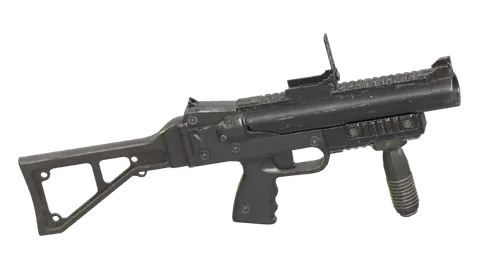
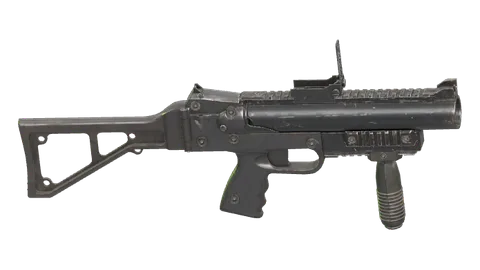
Armory slots in one row that filter what is shown; shop sections on their own; GL-06 level
- Armory: a tab's slots sit side by side (five for armour, three for weapons, two for
  equipment); picking one shows only the owned items that fit it, Show all brings the rest back
- Shop: All, or one section at a time (Helmet, Torso, Vest, Legs, Boots; Main, Pistol)
- The GL-06 model was made with its barrel tilted up 8 degrees; it is now level in the hands
  and in its picture (weapon sources take a pitch)

Changed region(s): [[0.0312, 0.1185, 0.9688, 0.8889]]

diff --git a/apps/web/src/app/screens/shop-screen.tsx b/apps/web/src/app/screens/shop-screen.tsx
@@ -24,6 +24,8 @@ export function ShopScreen() {
 	const [problem, setProblem] = useState<ProgressProblem | null>(null)
 	const opened = useSearch({ strict: false }) as { tab?: Tab }
 	const [tab, setTab] = useState<Tab>(opened.tab ?? 'weapons')
+	/** one section of the tab on its own (a place for armour, a slot for weapons), or all of them */
+	const [only, setOnly] = useState<string | null>(null)
 	const view = progress.data
 	if (!view) return <GameShell>{null}</GameShell>
 	const owned = new Set(view.inventory.map(entry => entry.itemId))
@@ -58,7 +60,10 @@ export function ShopScreen() {
 						type="button"
 						role="tab"
 						aria-selected={tab === key}
-						onClick={() => setTab(key)}
+						onClick={() => {
+							setTab(key)
+							setOnly(null)
+						}}
 						className={cn(
 							'frame cut-sm min-w-32 px-4 py-2.5 font-bold text-xs uppercase tracking-[0.2em]',
 							tab === key
@@ -70,99 +75,121 @@ export function ShopScreen() {
 					</button>
 				))}
 			</div>
+			{sections.length > 1 && (
+				<fieldset className="mb-4 flex shrink-0 flex-wrap gap-1 border-0 p-0" aria-label={t.filterLabel}>
+					{[{ key: null as string | null, title: t.all }, ...sections].map(section => (
+						<button
+							key={section.key ?? 'all'}
+							type="button"
+							aria-pressed={only === section.key}
+							onClick={() => setOnly(section.key)}
+							className={cn(
+								'frame cut-sm px-3 py-1.5 font-bold text-xs uppercase tracking-[0.15em]',
+								only === section.key
+									? 'text-rot-lime [--frame-color:var(--color-rot-lime)]'
+									: 'text-muted [--frame-fill:var(--color-rot-black)] hover:text-bone'
+							)}
+						>
+							{section.title}
+						</button>
+					))}
+				</fieldset>
+			)}
 			<div className={cn(scroller, 'flex flex-col gap-8')}>
-				{sections.map(section => (
-					<section key={section.key} className="flex flex-col gap-3">
-						<h2 className="font-display text-2xl uppercase">{section.title}</h2>
-						<ul className="grid gap-4 sm:grid-cols-2 lg:grid-cols-3 xl:grid-cols-4">
-							{items
-								.filter(entry => section.ids.includes(entry.id))
-								.sort((a, b) => a.price - b.price)
-								.map(entry => {
-									const has = owned.has(entry.id)
-									const affordable = view.salvage >= entry.price
-									const weapon = weapons.find(candidate => candidate.id === entry.id)
-									return (
-										<li key={entry.id} data-testid={`shop-${entry.id}`}>
-											<Panel className={cn('h-full gap-3 p-4', has && 'opacity-70')}>
-												<PanelHeader>
-													<PanelTitle className="text-lg">{entry.name}</PanelTitle>
-													{has && <Badge tone="lime">{t.owned}</Badge>}
-												</PanelHeader>
-												{itemPicture(entry.id) && (
-													<img
-														src={itemPicture(entry.id) ?? ''}
-														alt=""
-														width={480}
-														height={270}
-														loading="lazy"
-														className="aspect-[16/9] w-full object-contain"
-													/>
-												)}
-												<div className="flex items-center justify-between gap-2">
-													<p className="text-muted text-xs uppercase tracking-[0.16em]">
-														{weapon
-															? p.kinds[weapon.kind]
-															: entry.piece
-																? p.pieces[entry.piece]
-																: p.slotNames[entry.slot]}
-													</p>
-												</div>
-												<dl className="grid grid-cols-2 gap-x-3 gap-y-0.5 text-sm">
-													{itemStatRows(entry.id, 0, []).map(row => (
-														<div key={row.key} className="contents">
-															<dt className="text-muted">{row.label}</dt>
-															<dd className="text-right font-bold tabular-nums">{row.value}</dd>
-														</div>
-													))}
-												</dl>
-												<div className="mt-auto flex items-center justify-between gap-2 pt-2">
-													<span className="flex flex-col">
-														<span className="font-display text-2xl text-rot-lime tabular-nums">
-															{salvage(entry.price)}
-														</span>
-														{!has && !affordable && (
-															<span className="text-muted text-xs">
-																{format(t.needMore, { amount: salvage(entry.price - view.salvage) })}
+				{sections
+					.filter(section => only === null || section.key === only)
+					.map(section => (
+						<section key={section.key} className="flex flex-col gap-3">
+							<h2 className="font-display text-2xl uppercase">{section.title}</h2>
+							<ul className="grid gap-4 sm:grid-cols-2 lg:grid-cols-3 xl:grid-cols-4">
+								{items
+									.filter(entry => section.ids.includes(entry.id))
+									.sort((a, b) => a.price - b.price)
+									.map(entry => {
+										const has = owned.has(entry.id)
+										const affordable = view.salvage >= entry.price
+										const weapon = weapons.find(candidate => candidate.id === entry.id)
+										return (
+											<li key={entry.id} data-testid={`shop-${entry.id}`}>
+												<Panel className={cn('h-full gap-3 p-4', has && 'opacity-70')}>
+													<PanelHeader>
+														<PanelTitle className="text-lg">{entry.name}</PanelTitle>
+														{has && <Badge tone="lime">{t.owned}</Badge>}
+													</PanelHeader>
+													{itemPicture(entry.id) && (
+														<img
+															src={itemPicture(entry.id) ?? ''}
+															alt=""
+															width={480}
+															height={270}
+															loading="lazy"
+															className="aspect-[16/9] w-full object-contain"
+														/>
+													)}
+													<div className="flex items-center justify-between gap-2">
+														<p className="text-muted text-xs uppercase tracking-[0.16em]">
+															{weapon
+																? p.kinds[weapon.kind]
+																: entry.piece
+																	? p.pieces[entry.piece]
+																	: p.slotNames[entry.slot]}
+														</p>
+													</div>
+													<dl className="grid grid-cols-2 gap-x-3 gap-y-0.5 text-sm">
+														{itemStatRows(entry.id, 0, []).map(row => (
+															<div key={row.key} className="contents">
+																<dt className="text-muted">{row.label}</dt>
+																<dd className="text-right font-bold tabular-nums">{row.value}</dd>
+															</div>
+														))}
+													</dl>
+													<div className="mt-auto flex items-center justify-between gap-2 pt-2">
+														<span className="flex flex-col">
+															<span className="font-display text-2xl text-rot-lime tabular-nums">
+																{salvage(entry.price)}
 															</span>
-														)}
-													</span>
-													{!has &&
-														(confirming === entry.id ? (
-															<span className="flex gap-1">
+															{!has && !affordable && (
+																<span className="text-muted text-xs">
+																	{format(t.needMore, { amount: salvage(entry.price - view.salvage) })}
+																</span>
+															)}
+														</span>
+														{!has &&
+															(confirming === entry.id ? (
+																<span className="flex gap-1">
+																	<Button
+																		size="sm"
+																		onClick={async () => {
+																			setConfirming(null)
+																			setProblem(
+																				(await runAction(queryClient, progressActions.buy(entry.id)))?.error ?? null
+																			)
+																		}}
+																	>
+																		{format(t.confirmBuy, { price: salvage(entry.price) })}
+																	</Button>
+																	<Button size="sm" variant="ghost" onClick={() => setConfirming(null)}>
+																		{p.cancel}
+																	</Button>
+																</span>
+															) : (
 																<Button
 																	size="sm"
-																	onClick={async () => {
-																		setConfirming(null)
-																		setProblem(
-																			(await runAction(queryClient, progressActions.buy(entry.id)))?.error ?? null
-																		)
-																	}}
+																	variant="secondary"
+																	disabled={!affordable}
+																	onClick={() => setConfirming(entry.id)}
 																>
-																	{format(t.confirmBuy, { price: salvage(entry.price) })}
+																	{t.buy}
 																</Button>
-																<Button size="sm" variant="ghost" onClick={() => setConfirming(null)}>
-																	{p.cancel}
-																</Button>
-															</span>
-														) : (
-															<Button
-																size="sm"
-																variant="secondary"
-																disabled={!affordable}
-																onClick={() => setConfirming(entry.id)}
-															>
-																{t.buy}
-															</Button>
-														))}
-												</div>
-											</Panel>
-										</li>
-									)
-								})}
-						</ul>
-					</section>
-				))}
+															))}
+													</div>
+												</Panel>
+											</li>
+										)
+									})}
+							</ul>
+						</section>
+					))}
 			</div>
 		</GameShell>
 	)

diff --git a/apps/web/src/app/screens/armory-screen.tsx b/apps/web/src/app/screens/armory-screen.tsx
@@ -276,13 +276,20 @@ export function ArmoryScreen() {
 	const opened = useSearch({ strict: false }) as { tab?: Tab }
 	const [tab, setTab] = useState<Tab>(opened.tab ?? 'weapons')
 	const [selected, setSelected] = useState<string | null>(null)
+	/** the loadout slot picked: the owned list shows only what fits it */
+	const [slot, setSlot] = useState<keyof Loadout | null>(null)
 	const [problem, setProblem] = useState<Refusal | null>(null)
 	const view = progress.data
 	if (!view) return <GameShell>{null}</GameShell>
 
 	const shown = TABS[tab]
 	const equipped = new Set(Object.values(view.loadout).filter(Boolean))
-	const owned = view.inventory.filter(entry => shown.slots.includes(item(entry.itemId).slot))
+	const fitting = fields.find(entry => entry.field === slot)
+	const owned = view.inventory.filter(entry => {
+		const def = item(entry.itemId)
+		if (!shown.slots.includes(def.slot)) return false
+		return !fitting || (def.slot === fitting.slot && (!fitting.piece || def.piece === fitting.piece))
+	})
 	// something of this tab is always shown in detail: the pick, else what is in its first slot
 	const chosen =
 		selected && owned.some(entry => entry.itemId === selected)
@@ -317,6 +324,7 @@ export function ArmoryScreen() {
 								onClick={() => {
 									setTab(key)
 									setSelected(null)
+									setSlot(null)
 								}}
 								className={cn(
 									'frame cut-sm flex-1 px-3 py-2.5 font-bold text-xs uppercase tracking-[0.2em]',
@@ -335,21 +343,29 @@ export function ArmoryScreen() {
 						<PanelHeader>
 							<PanelTitle className="text-xl">{p.loadoutTitle}</PanelTitle>
 						</PanelHeader>
-						<ul className="grid grid-cols-[repeat(auto-fill,minmax(9rem,1fr))] gap-2">
+						{/* every slot of the tab side by side; picking one shows only what fits it below */}
+						<ul
+							className="grid gap-2"
+							style={{ gridTemplateColumns: `repeat(${shown.fields.length}, minmax(0, 1fr))` }}
+						>
 							{shown.fields.map(field => {
 								const id = view.loadout[field]
 								const picture = id ? itemPicture(id) : null
 								return (
-									<li key={field} className="flex">
+									<li key={field} className="flex min-w-0">
 										<button
 											type="button"
-											disabled={!id}
-											onClick={() => id && setSelected(id)}
+											aria-pressed={slot === field}
+											onClick={() => {
+												const picking = slot !== field
+												setSlot(picking ? field : null)
+												if (picking && id) setSelected(id)
+											}}
 											className={cn(
-												'frame cut-sm flex w-full cursor-pointer flex-col gap-1 p-2 text-left disabled:cursor-default',
-												id && chosen === id
+												'frame cut-sm flex w-full min-w-0 cursor-pointer flex-col gap-1 p-2 text-left',
+												slot === field
 													? '[--frame-color:var(--color-rot-lime)]'
-													: '[--frame-fill:var(--color-rot-black)]'
+													: '[--frame-fill:var(--color-rot-black)] hover:[--frame-color:var(--color-bone)]'
 											)}
 										>
 											<span className="font-bold text-[0.65rem] text-muted uppercase tracking-[0.2em]">
@@ -364,7 +380,7 @@ export function ArmoryScreen() {
 													className="aspect-[16/9] w-full object-contain"
 												/>
 											)}
-											<span className={cn('font-bold', !id && 'text-muted')}>
+											<span className={cn('truncate font-bold text-sm', !id && 'text-muted')}>
 												{id ? itemById.get(id)?.name : t.emptySlot}
 											</span>
 										</button>
@@ -376,8 +392,15 @@ export function ArmoryScreen() {
 
 					{/* everything owned that fits this tab */}
 					<Panel>
-						<PanelHeader>
-							<PanelTitle className="text-xl">{t.owned}</PanelTitle>
+						<PanelHeader className="flex items-center justify-between gap-3">
+							<PanelTitle className="text-xl">
+								{slot ? format(t.ownedFor, { slot: t.slots[slot] }) : t.owned}
+							</PanelTitle>
+							{slot && (
+								<Button size="sm" variant="secondary" onClick={() => setSlot(null)}>
+									{t.showAll}
+								</Button>
+							)}
 						</PanelHeader>
 						<ul className="grid grid-cols-[repeat(auto-fill,minmax(10rem,1fr))] gap-2">
 							{owned.map(entry => {

diff --git a/tooling/assets/models.ts b/tooling/assets/models.ts
@@ -33,6 +33,8 @@ type Weapon = {
 	length: number
 	flip?: boolean
 	upsideDown?: boolean
+	/** degrees the model is turned about Z after that (a model made with its barrel tilted; down is negative) */
+	pitch?: number
 	/** parts left out (node names matching this: loose bullets, display stands) */
 	drop?: string
 	/** loose pieces lying wholly in this bottom share of the height are left out (a display base) */
@@ -50,7 +52,7 @@ mkdirSync(out, { recursive: true })
  * Turns and scales the whole scene: the longest axis becomes +X (the barrel), the model is centred
  * on its grip height, and it is `length` metres long. `flip` turns it end for end.
  */
-function normalise(document: Document, length: number, flip: boolean, upsideDown = false): void {
+function normalise(document: Document, length: number, flip: boolean, upsideDown = false, pitch = 0): void {
 	const scene = document.getRoot().getDefaultScene() ?? document.getRoot().listScenes()[0]
 	if (!scene) return
 	const { min, max } = getBounds(scene)
@@ -81,6 +83,10 @@ function normalise(document: Document, length: number, flip: boolean, upsideDown
 	// `flip` turns it end for end (a half turn about +Y), `upsideDown` rights it (a half turn about +X)
 	let turned = flip ? multiply([0, 1, 0, 0], rotation) : rotation
 	if (upsideDown) turned = multiply([1, 0, 0, 0], turned)
+	if (pitch) {
+		const half = (pitch * Math.PI) / 360
+		turned = multiply([0, 0, Math.sin(half), Math.cos(half)], turned)
+	}
 	wrapper.setRotation(turned)
 	wrapper.setScale([scale, scale, scale])
 	// move the centre to the origin (applied before rotation and scale, so through a child)
@@ -195,7 +201,7 @@ for (const weapon of weapons) {
 	// older files describe colour as specular-glossiness: turn that into the usual metal-roughness
 	await document.transform(metalRough())
 	plainMaterials(document)
-	normalise(document, weapon.length, weapon.flip ?? false, weapon.upsideDown ?? false)
+	normalise(document, weapon.length, weapon.flip ?? false, weapon.upsideDown ?? false, weapon.pitch ?? 0)
 	await document.transform(dedup(), flatten(), weld(), prune())
 	if (weapon.dropBottom) dropBottom(document, weapon.dropBottom)
 	const limit = weapon.triangles ?? 16000

diff --git a/apps/web/src/i18n/en.ts b/apps/web/src/i18n/en.ts
@@ -321,6 +321,8 @@ export const en = {
 			tabs: { weapons: 'Weapons', armour: 'Armour', equipment: 'Equipment' },
 			tabsLabel: 'What to look at',
 			owned: 'Owned',
+			ownedFor: 'Owned for {slot}',
+			showAll: 'Show all',
 			stageHint: 'Drag to turn',
 			classTitle: 'Class',
 			inventory: 'Inventory',
@@ -392,6 +394,8 @@ export const en = {
 			title: 'Shop',
 			tabs: { weapons: 'Weapons', armour: 'Armour', equipment: 'Equipment' },
 			intro: 'Fixed prices. What you see is exactly what you get.',
+			all: 'All',
+			filterLabel: 'Show only',
 			buy: 'Buy',
 			confirmBuy: 'Buy for {price}',
 			owned: 'Owned',
